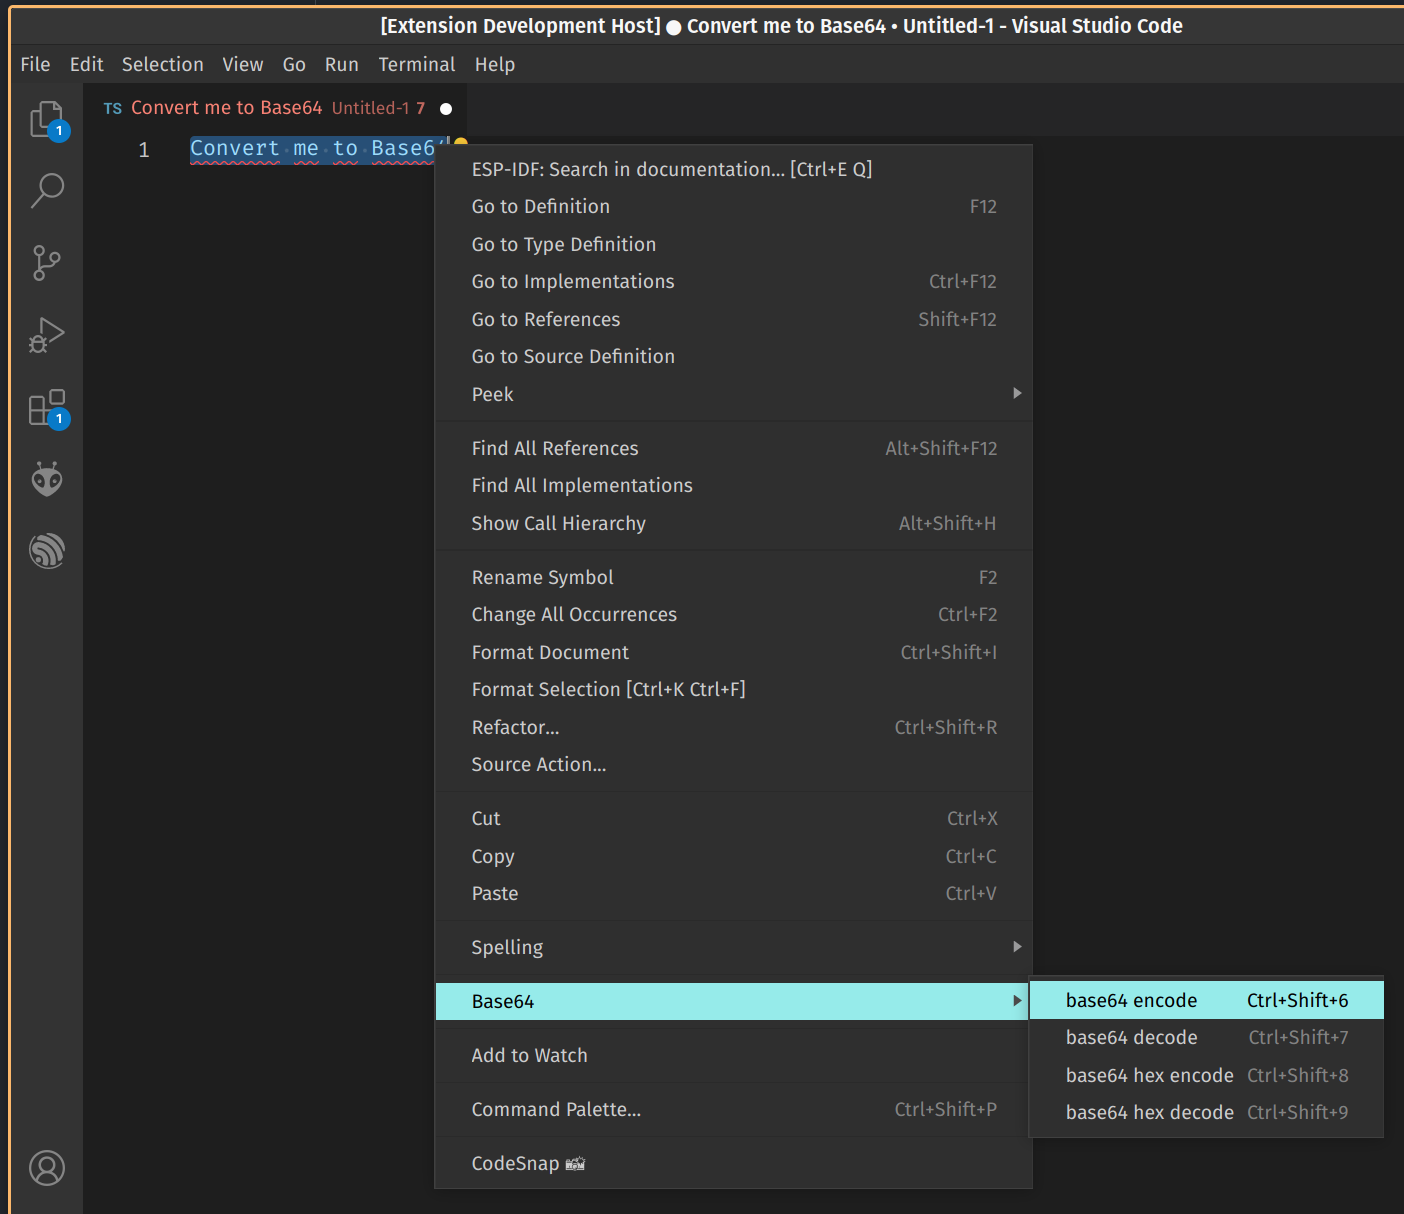
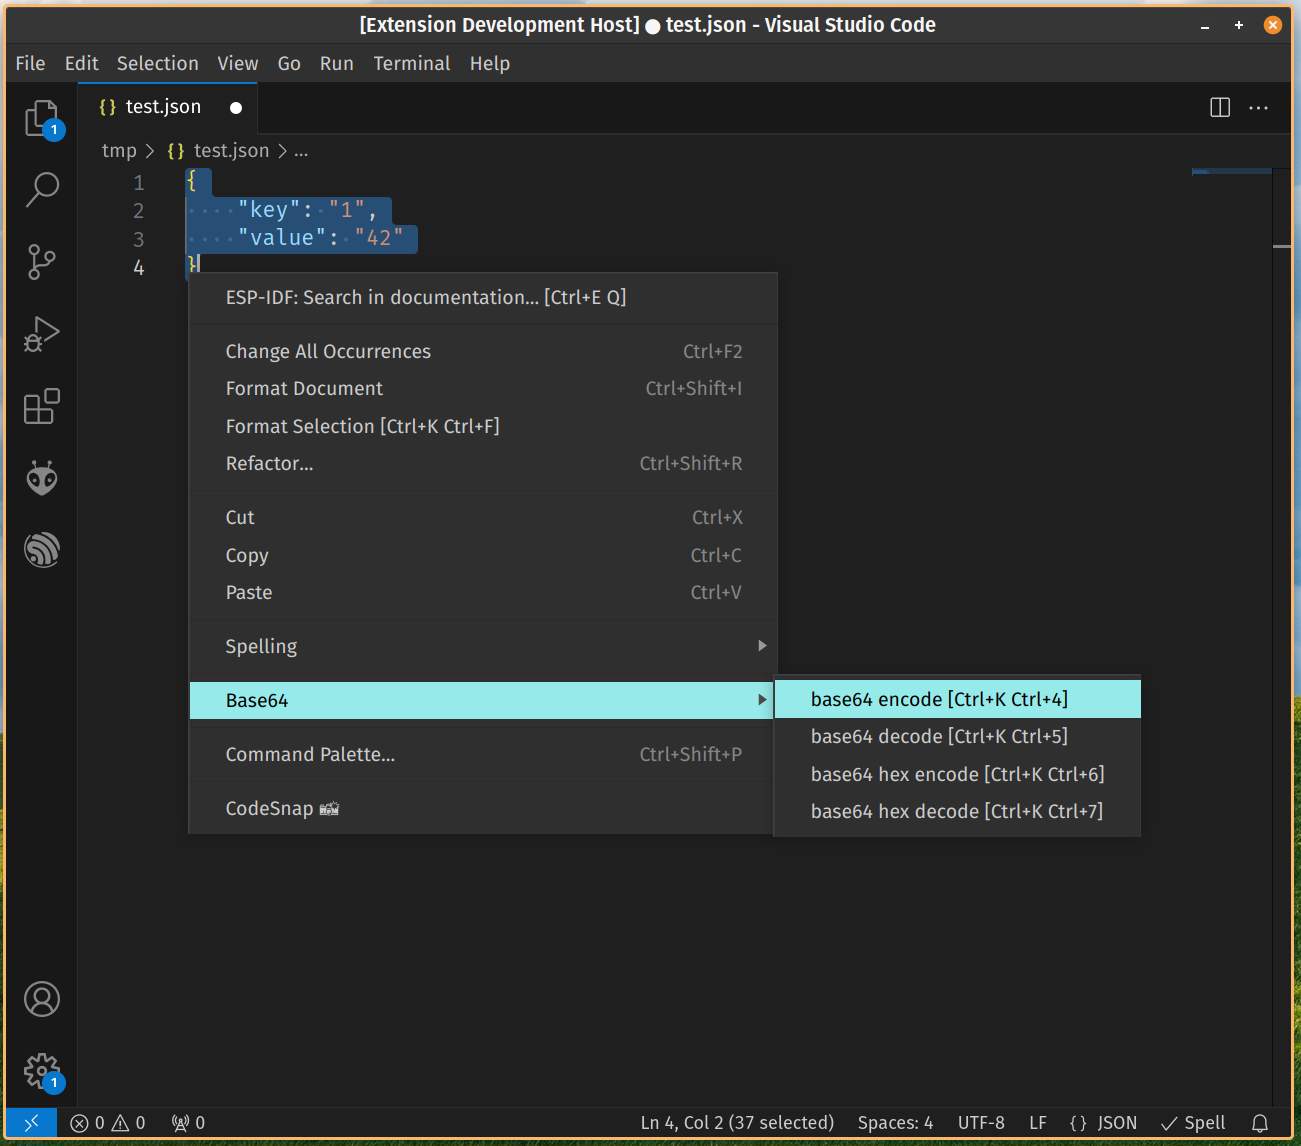
Change keybindings to avoid conflict Fixes #4

diff --git a/README.md b/README.md
@@ -15,13 +15,17 @@ You can select text and encode/decode to/from Base64. Search in command palette 
 ## Key Bindings
 
 ```
-encode text to Base64:  Ctrl+Shift+6 (Ctrl+Cmd+6 in Mac)
-decode Base64 to text:  Ctrl+Shift+7 (Ctrl+Cmd+7 in Mac)
-encode Hex to Base64:   Ctrl+Shift+8 (Ctrl+Cmd+8 in Mac)
-decode Base64 to Hex:   Ctrl+Shift+9 (Ctrl+Cmd+9 in Mac)
+encode text to Base64:  Ctrl+k Ctrl+4 (⌘+k ⌘+4 in Mac)
+decode Base64 to text:  Ctrl+k Ctrl+5 (⌘+k ⌘+5 in Mac)
+encode Hex to Base64:   Ctrl+k Ctrl+6 (⌘+k ⌘+6 in Mac)
+decode Base64 to Hex:   Ctrl+k Ctrl+7 (⌘+k ⌘+7 in Mac)
 ```
 
 ## Release Notes
+
+### 1.0.0
+
+Change keybindings to avoid conflict
 
 ### 0.1.0
 

diff --git a/CHANGELOG.md b/CHANGELOG.md
@@ -7,6 +7,12 @@ and this project adheres to [Semantic Versioning](https://semver.org/spec/v2.0.0
 
 ## [Unreleased]
 
+## [1.0.0] - 2022-06-20
+
+### Changed
+
+- Change keybindings to avoid conflict
+
 ## [0.1.0] - 2023-08-27
 
 ### Added
